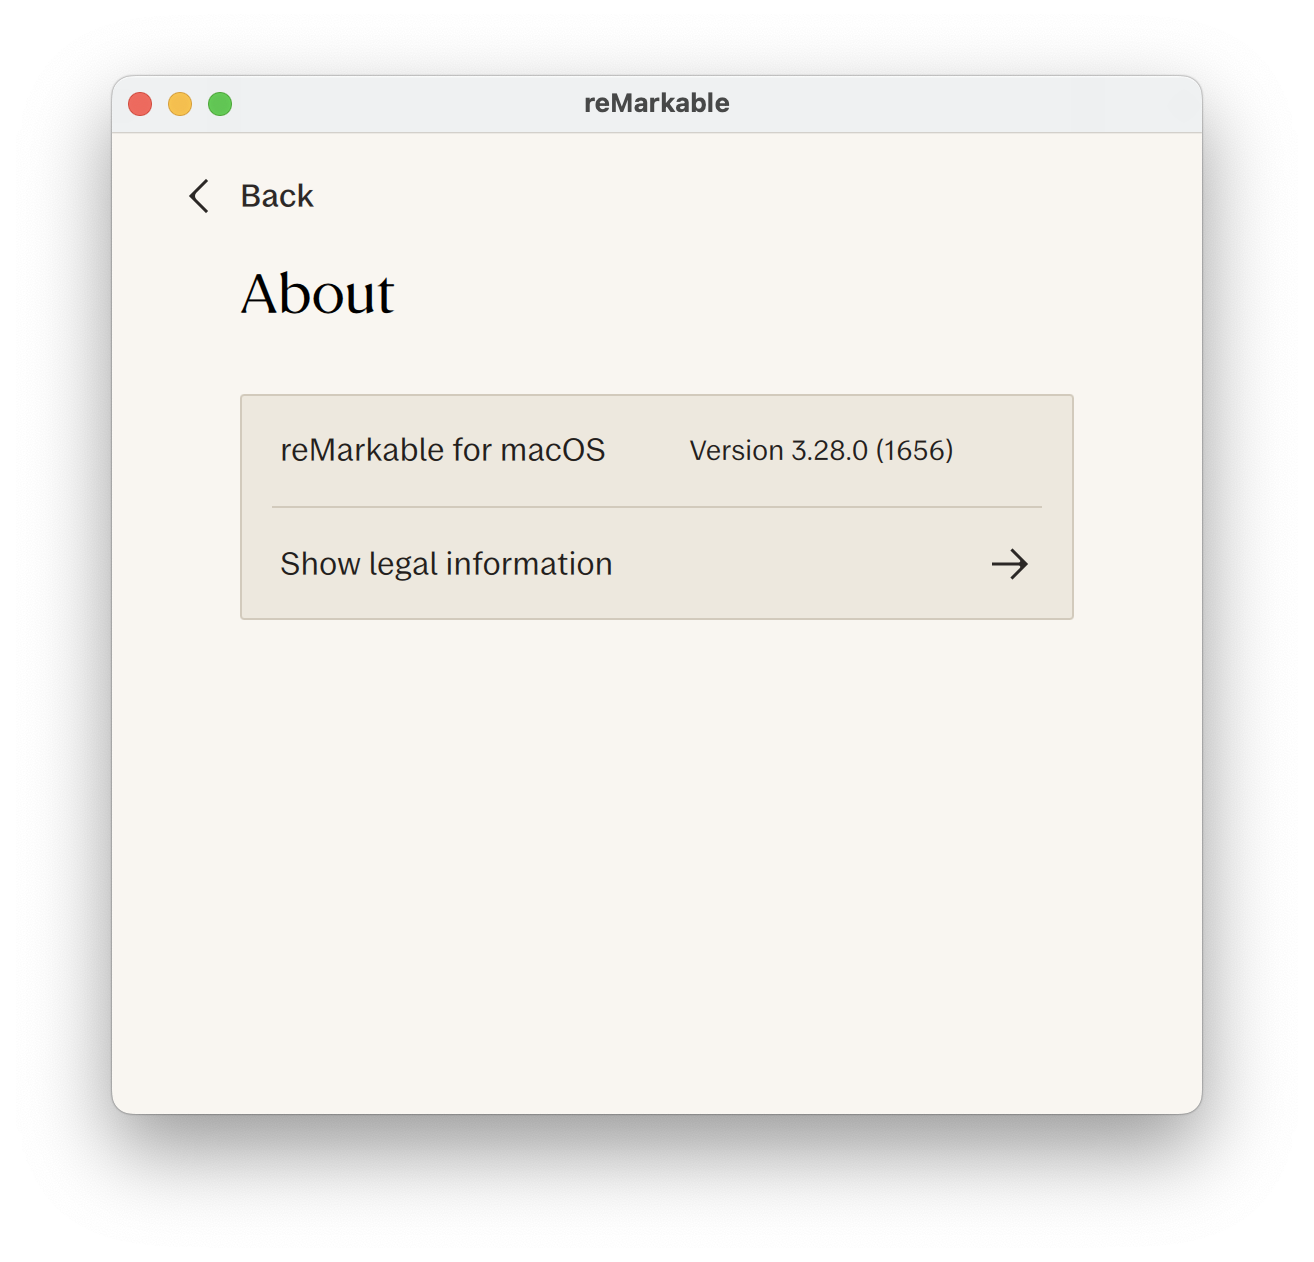
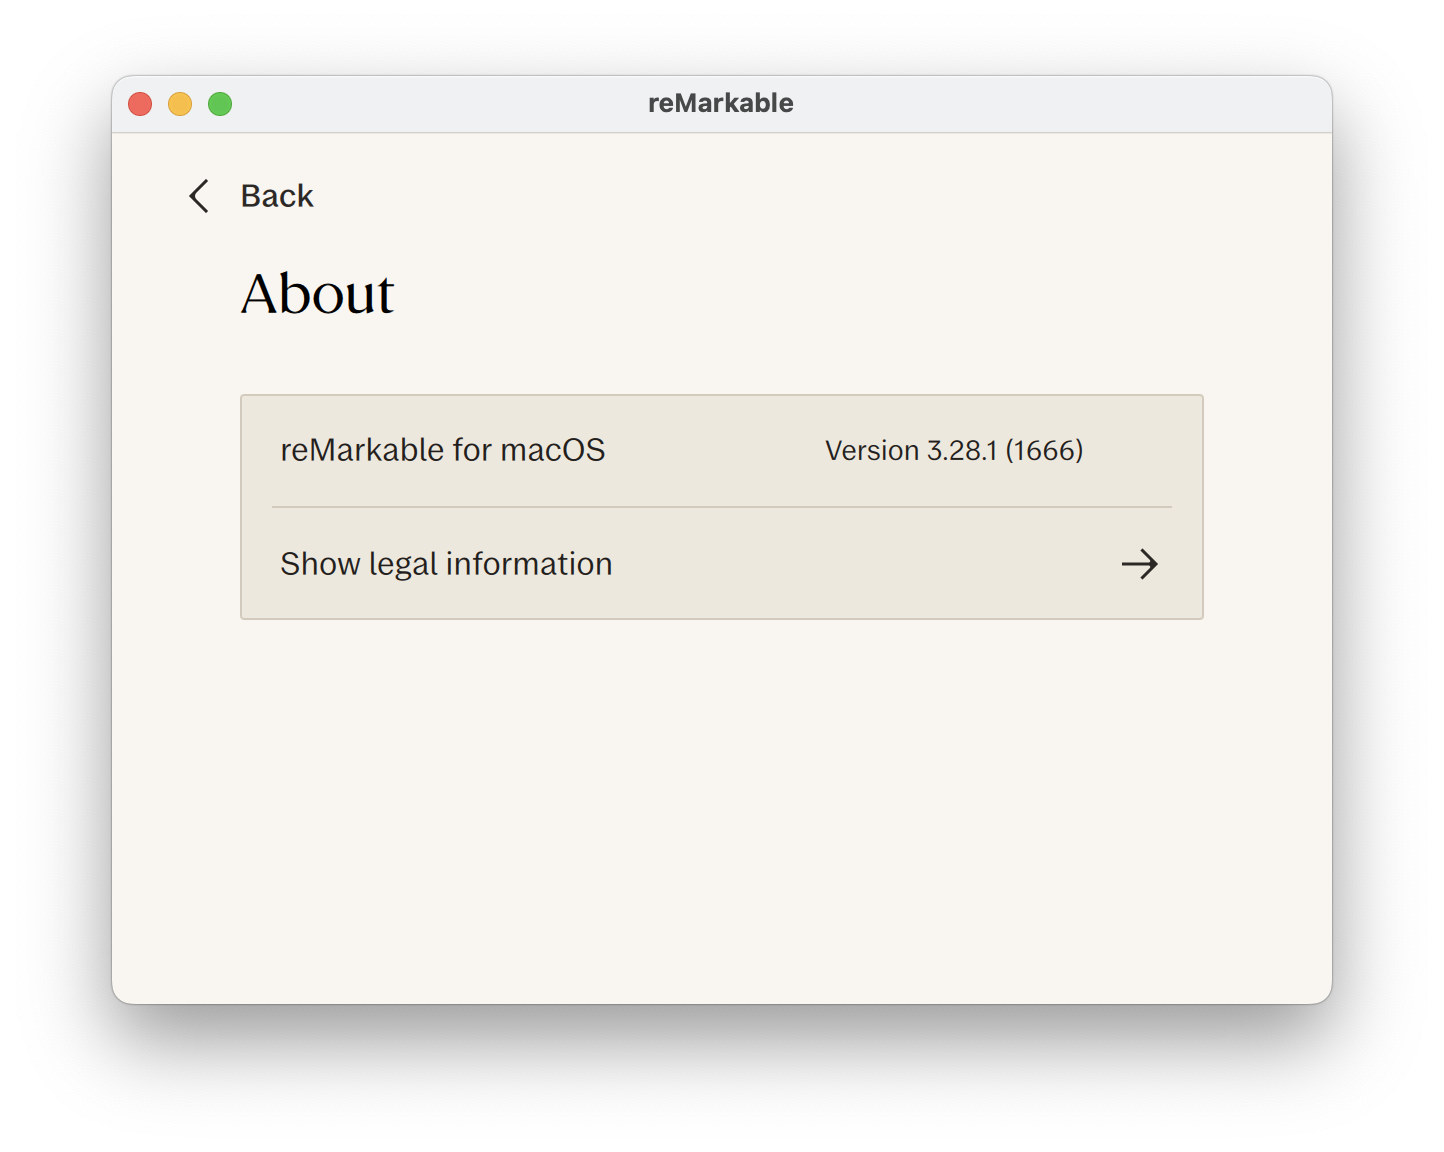
Update compatibility for v3.28.1

diff --git a/README.md b/README.md
@@ -19,7 +19,7 @@ Looking for a Windows version? Check out **[RMHook-Win](https://github.com/Noham
 ## Compatibility
 
 **Tested and working on:**
-- reMarkable Desktop v3.28 (released 2026-08-20)
+- reMarkable Desktop v3.28.1 (released 2026-08-24)
 
 <p align="center">
   <img src="docs/latest.png" width="45%" />
